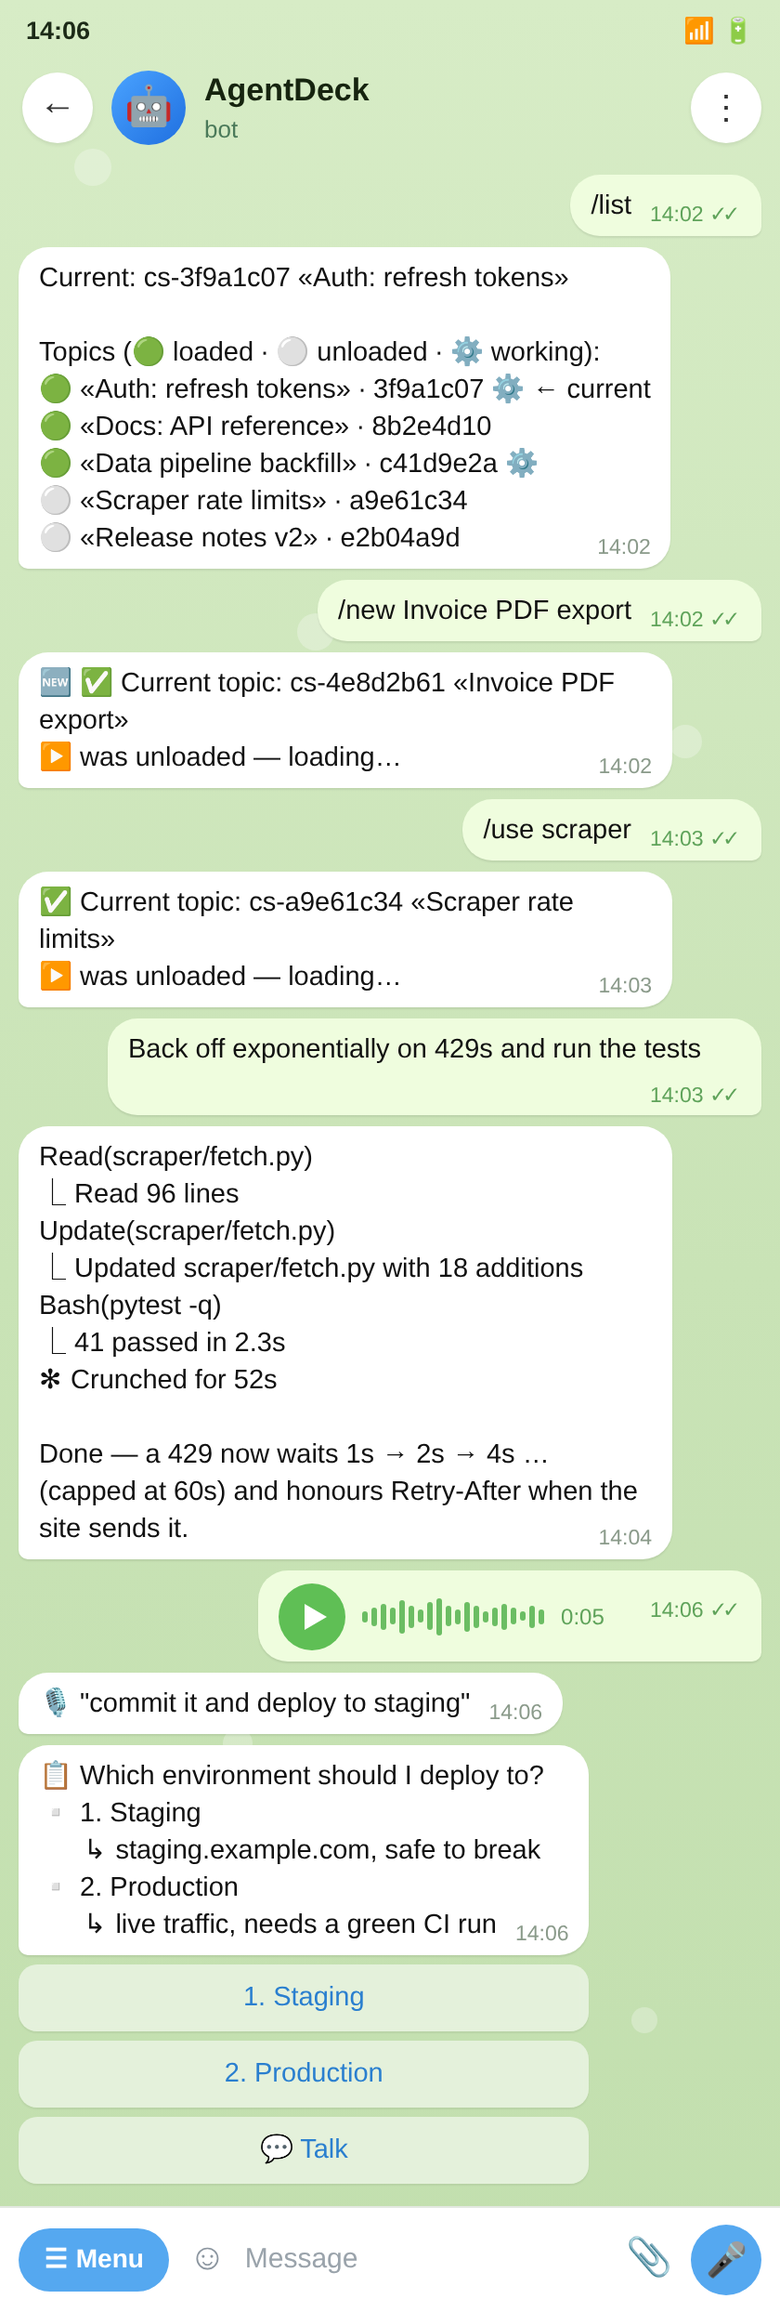
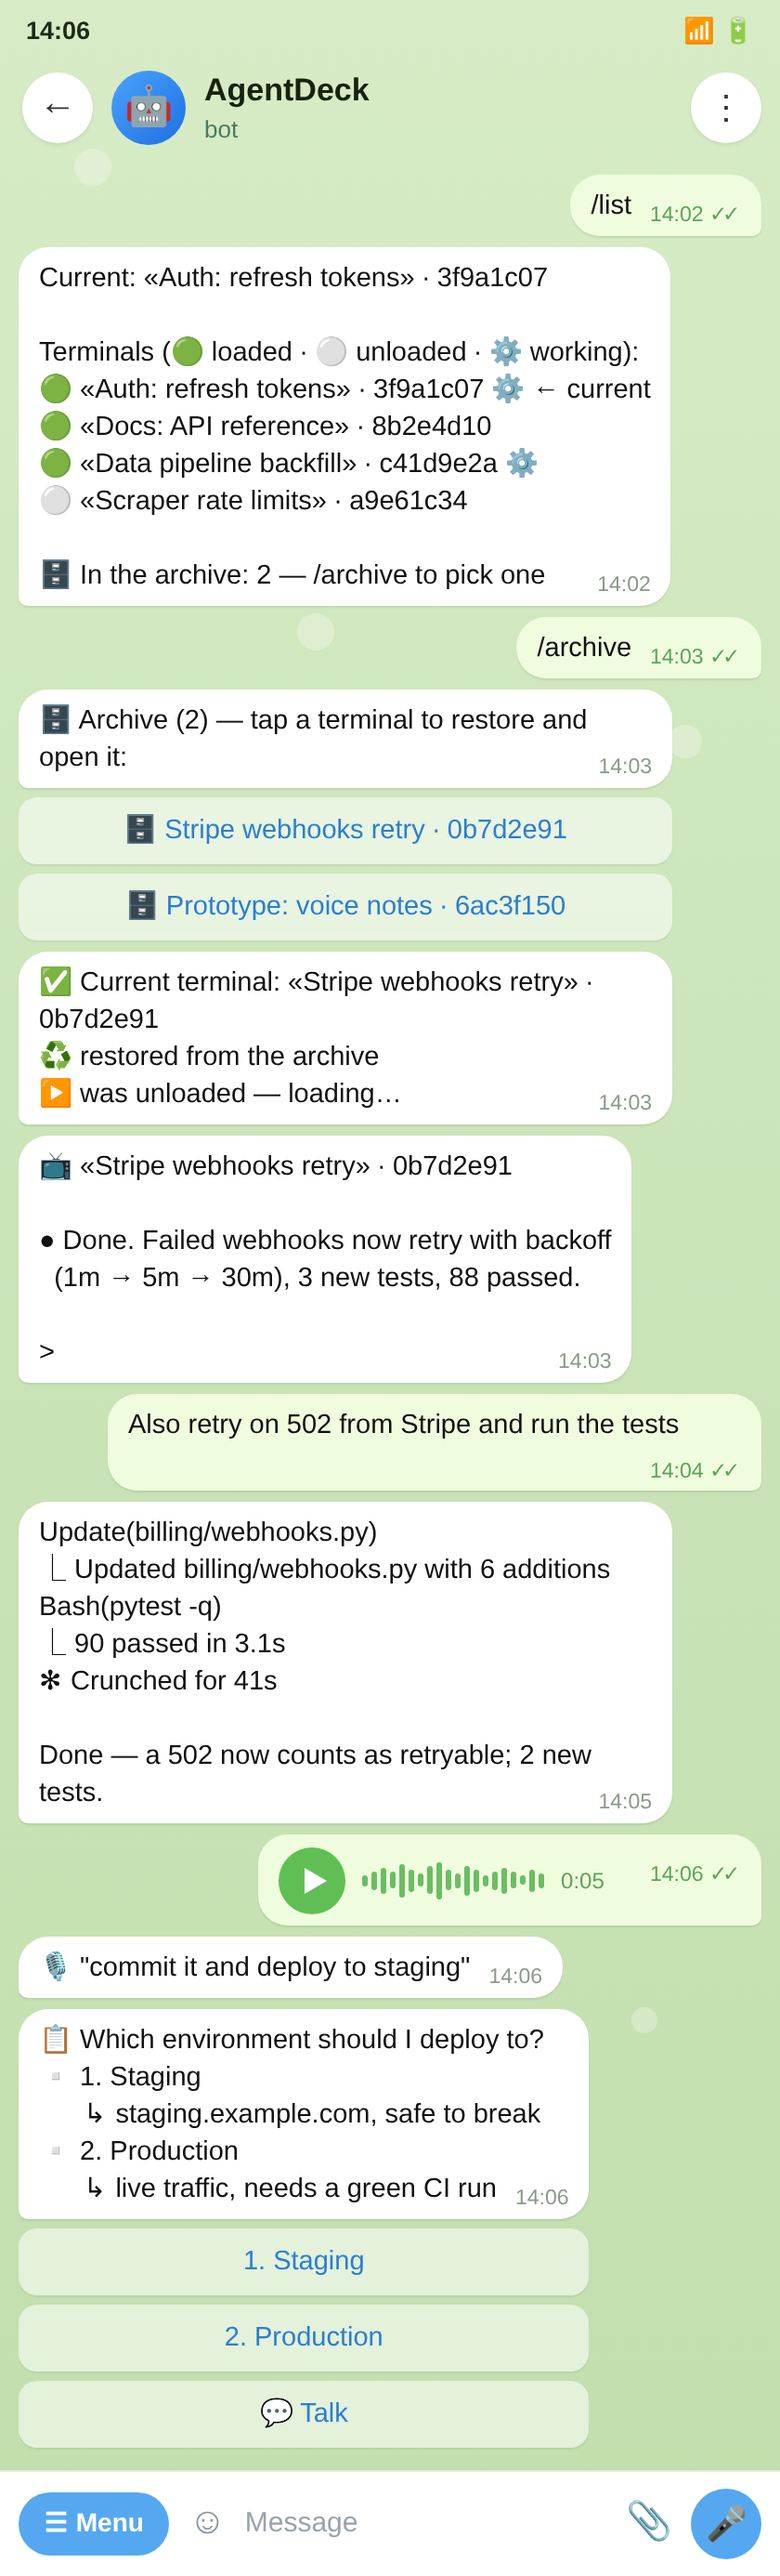
v1.6.0 prep: CHANGELOG, Telegram screenshot with the new menu wording

diff --git a/tests/make_screenshots.py b/tests/make_screenshots.py
@@ -492,24 +492,28 @@ def tg_html() -> str:
 
     msgs = [
         out("/list", "14:02"),
-        inc("Current: cs-3f9a1c07 «Auth: refresh tokens»\n\n"
-            "Topics (🟢 loaded · ⚪ unloaded · ⚙ working):\n"
+        inc("Current: «Auth: refresh tokens» · 3f9a1c07\n\n"
+            "Terminals (🟢 loaded · ⚪ unloaded · ⚙ working):\n"
             "🟢 «Auth: refresh tokens» · 3f9a1c07 ⚙ ← current\n"
             "🟢 «Docs: API reference» · 8b2e4d10\n"
             "🟢 «Data pipeline backfill» · c41d9e2a ⚙\n"
-            "⚪ «Scraper rate limits» · a9e61c34\n"
-            "⚪ «Release notes v2» · e2b04a9d", "14:02"),
-        out("/new Invoice PDF export", "14:02"),
-        inc("🆕 ✅ Current topic: cs-4e8d2b61 «Invoice PDF export»\n▶ was unloaded — loading…", "14:02"),
-        out("/use scraper", "14:03"),
-        inc("✅ Current topic: cs-a9e61c34 «Scraper rate limits»\n▶ was unloaded — loading…", "14:03"),
-        out("Back off exponentially on 429s and run the tests", "14:03"),
-        inc("Read(scraper/fetch.py)\n⎿ Read 96 lines\n"
-            "Update(scraper/fetch.py)\n⎿ Updated scraper/fetch.py with 18 additions\n"
-            "Bash(pytest -q)\n⎿ 41 passed in 2.3s\n"
-            "✻ Crunched for 52s\n\n"
-            "Done — a 429 now waits 1s → 2s → 4s … (capped at 60s) and honours Retry-After when the site sends it.",
-            "14:04"),
+            "⚪ «Scraper rate limits» · a9e61c34\n\n"
+            "🗄 In the archive: 2 — /archive to pick one", "14:02"),
+        out("/archive", "14:03"),
+        inc("🗄 Archive (2) — tap a terminal to restore and open it:", "14:03",
+            kb=["🗄 Stripe webhooks retry · 0b7d2e91", "🗄 Prototype: voice notes · 6ac3f150"]),
+        inc("✅ Current terminal: «Stripe webhooks retry» · 0b7d2e91\n"
+            "♻ restored from the archive\n▶ was unloaded — loading…", "14:03"),
+        inc("📺 «Stripe webhooks retry» · 0b7d2e91\n\n"
+            "● Done. Failed webhooks now retry with backoff\n"
+            "  (1m → 5m → 30m), 3 new tests, 88 passed.\n\n"
+            "> ", "14:03"),
+        out("Also retry on 502 from Stripe and run the tests", "14:04"),
+        inc("Update(billing/webhooks.py)\n⎿ Updated billing/webhooks.py with 6 additions\n"
+            "Bash(pytest -q)\n⎿ 90 passed in 3.1s\n"
+            "✻ Crunched for 41s\n\n"
+            "Done — a 502 now counts as retryable; 2 new tests.",
+            "14:05"),
         out("", "14:06", voice=True),
         inc('🎙 "commit it and deploy to staging"', "14:06"),
         inc("📋 Which environment should I deploy to?\n"

diff --git a/CHANGELOG.md b/CHANGELOG.md
@@ -2,6 +2,29 @@
 
 All notable changes to AgentDeck. Newest first.
 
+## v1.6.0 — archive that frees memory, Telegram menu with the archive
+
+### Dashboard
+- **Archive unloads the terminal** right away, unless it is working (printing, a timer, a
+  background task); a busy one unloads by itself once it goes quiet. The dashboard says which.
+- **Clicking an archived terminal restores and opens it.** The Restore button is gone; Delete
+  stays. The task board's terminal links restore an archived terminal the same way.
+
+### Telegram bridge
+- **`/archive`**: archived terminals as buttons (newest first); a tap restores and opens it,
+  like a click on the dashboard. `/archive <text>` searches the archive.
+- **`/use`** buttons list the terminals outside the archive, loaded first; `/list` shows how
+  many are archived.
+- **After a pick the bot re-reads the session by itself**: a second message "📺 «name» · id"
+  with the terminal's screen once Claude is up, or its last reply if it can't load.
+- A topic still running in an old numbered terminal is served there (no "already open
+  elsewhere" refusal); `/read` on an unloaded terminal shows its last reply from the transcript.
+- The menu says "terminal" everywhere, like the dashboard.
+
+### Repo
+- The nginx example has no numbered `/terminalN` routes any more (one ttyd on `/sess/`).
+- README gallery: fewer task-board shots; new archive and Telegram screenshots.
+
 ## v1.5.1 — terminal ⇄ tasks links, fixes from a fresh-user Docker install test
 
 Tested before release: the full suite, and a fresh install from GitHub with Docker following
